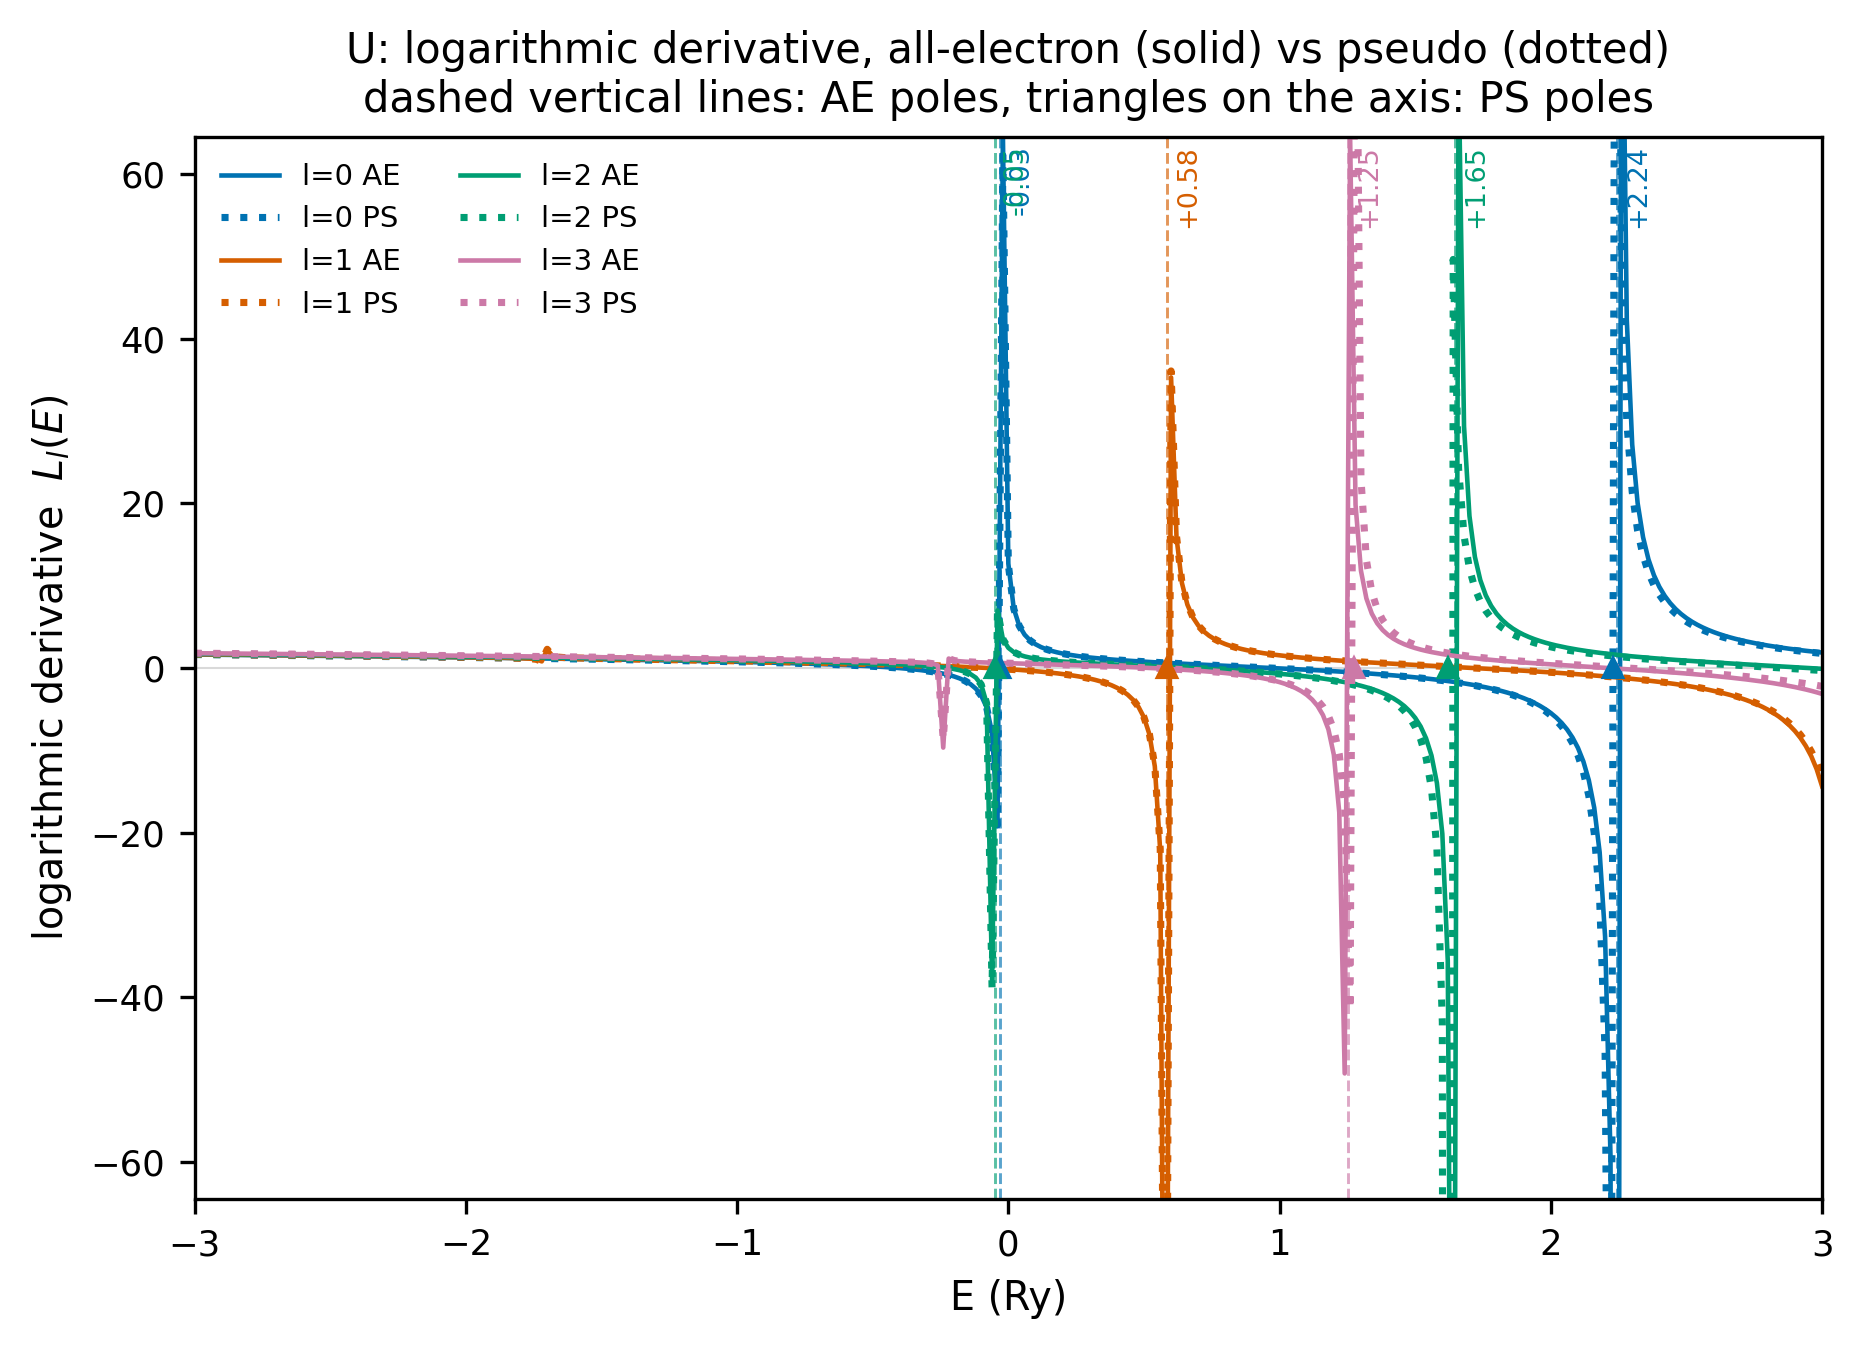
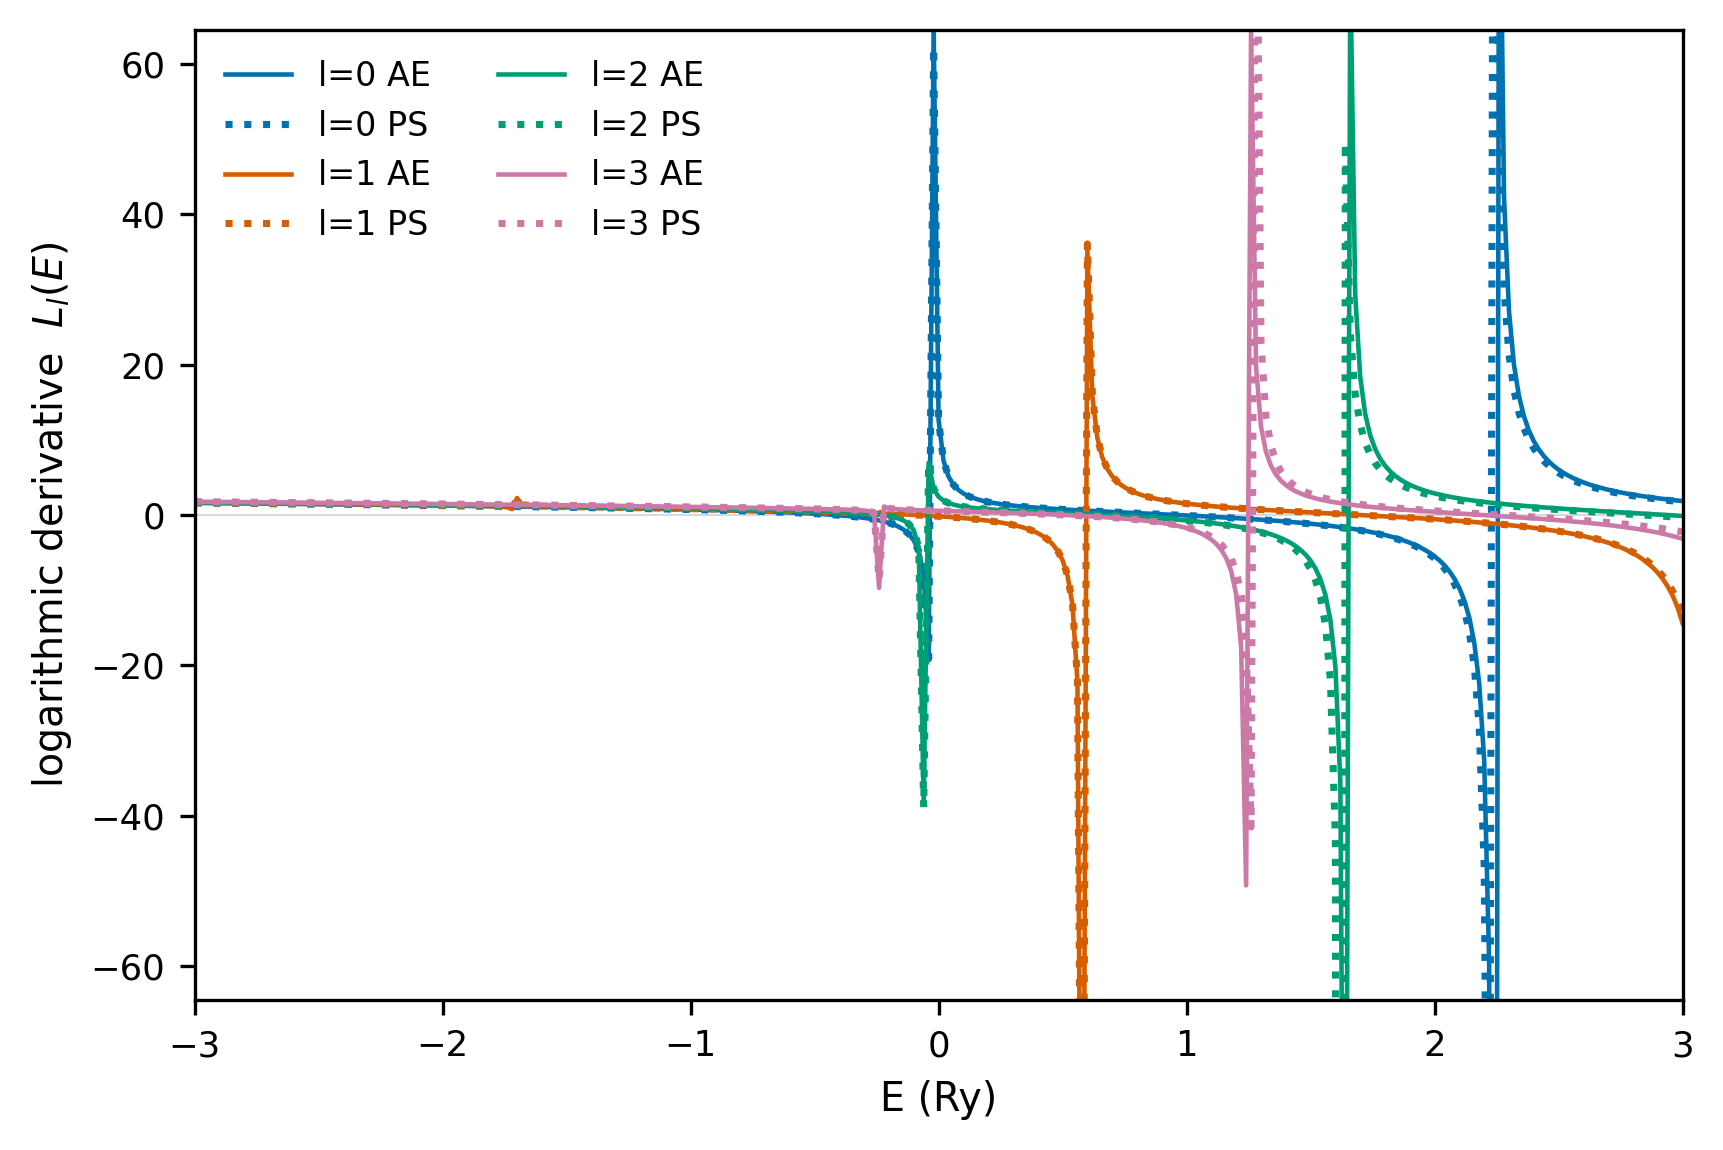
Figures: drop the rlderiv plot, the inset, the pole markers and every title
- fig_rlderiv is gone (file and code): its meaning is not evident from the picture and
  the decisive column is the pole verdict, which belongs in a table.
- fig_radial: no |u_AE - u_PS| inset (those numbers are in the report table), no title.
- fig_logderiv: no vertical pole lines, no triangles, no annotations -- AE solid vs PS
  dotted curves only, no title.
- tests updated to enforce this: no title on either figure, no inset, no vertical lines.
- 27 tests.

Changed region(s): [[0.0, 0.0, 0.9843, 0.9739], [0.0, 0.213, 0.0308, 0.2435]]

diff --git a/src/aiida_ld1_scripts/report.py b/src/aiida_ld1_scripts/report.py
@@ -1,11 +1,14 @@
 """Figures and the markdown report, from ``data/summary.json``.
 
-Three figures, each one a question about the pseudopotential:
+Two figures, both in the style of Torres & Kaloni (2020) and both **without a title** (the
+manuscript captions them):
 
 ``fig_radial.png``     do the pseudo and all-electron radial functions agree?
-``fig_logderiv.png``   do the logarithmic derivatives agree, and do the poles sit on
-                       the same bound-state energies (the ghost criterion)?
-``fig_rlderiv.png``    which ``rlderiv`` reproduces the all-electron data best?
+``fig_logderiv.png``   do the logarithmic derivatives agree?
+
+There is deliberately no plot of the ``rlderiv`` scan: its meaning is not evident from a
+picture, the decisive column is the pole verdict, and that belongs in a table (see the
+README, "what the scan cannot decide").
 
 The ``l >= 3`` channel is drawn but not used to judge anything: for ``l >= 3`` the
 Bessel-box column of ``ld1.x`` is a numerical artefact (it moves ~0.23 Ry with the box
@@ -38,7 +41,8 @@ def _matplotlib():
     import matplotlib
     matplotlib.use('Agg')
     import matplotlib.pyplot as plt
-    # a paper figure, not a debugging plot
+    # a paper figure, not a debugging plot: no titles anywhere, only axis labels and the
+    # legend carry information
     plt.rcParams.update({'font.size': 9, 'axes.titlesize': 10, 'axes.labelsize': 9.5,
                          'legend.fontsize': 8, 'xtick.labelsize': 8.5,
                          'ytick.labelsize': 8.5})
@@ -48,10 +52,9 @@ def _matplotlib():
 def _save(figure, out_base: Path, plt, formats: Sequence[str]) -> Path:
     """Save ``out_base`` in every requested format; returns the base path.
 
-    ``bbox_inches='tight'`` is what keeps a long ylabel or a two-line title from being
-    cut off.  It is **not sufficient** on its own: matplotlib's tight bounding box does
-    not include the decorations of an inset (child) axes, so the inset's tick labels and
-    title would be cropped.  They are passed as extra artists explicitly.
+    ``bbox_inches='tight'`` is what keeps a long ylabel from being cut off.  It is **not**
+    sufficient on its own: matplotlib's tight bounding box does not include the
+    decorations of an inset (child) axes, so those are passed as extra artists.
     """
     out_base.parent.mkdir(parents=True, exist_ok=True)
     extra = []
@@ -77,17 +80,14 @@ def figure_radial(plt, directory: str | Path, out_base: Path, *, rcuts=None,
                   formats: Sequence[str] = ('png',)) -> Optional[Path]:
     """AE vs pseudo radial functions, in the style of Torres & Kaloni Fig. 2 (left).
 
-    All-electron orbitals are **solid lines**, pseudo-orbitals **open symbols** (not a
-    dashed line: a dashed line hides underneath the solid one exactly where the two must
-    coincide), and each pseudized channel gets a vertical dotted line at its ``rcut``.
+    All-electron orbitals are **solid lines**, pseudo-orbitals **open symbols** (a dashed
+    line would hide underneath the solid one exactly where the two have to coincide), and
+    each pseudized channel gets a vertical dotted line at its ``rcut``.  No title: the axes
+    are labelled and the legend carries the ``rcut`` values.
+
     Only the pseudized channels are drawn; the all-electron run also writes core states
     (4F, 5D) that the pseudopotential has no orbital for.
-
-    ``directory`` must contain ``ld1.wfc`` (all-electron) and ``ld1ps.wfc`` (pseudo +
-    phase-aligned all-electron in its second half).
     """
-    import numpy as np
-
     directory = Path(directory)
     ae_file, ps_file = directory / 'ld1.wfc', directory / 'ld1ps.wfc'
     if not (ae_file.is_file() and ps_file.is_file()):
@@ -95,8 +95,7 @@ def figure_radial(plt, directory: str | Path, out_base: Path, *, rcuts=None,
     ae_labels, grid, ae_values = analysis.read_wfc(ae_file)
     ps_labels, _, ps_values, _aligned = analysis.read_wfc_halves(ps_file)
 
-    figure, axis = plt.subplots(figsize=(7.0, 4.4))
-    inset = axis.inset_axes([0.61, 0.47, 0.36, 0.36])
+    figure, axis = plt.subplots(figsize=(6.4, 4.2))
     indices = _sample(grid)
     rcuts = rcuts or {}
 
@@ -115,29 +114,12 @@ def figure_radial(plt, directory: str | Path, out_base: Path, *, rcuts=None,
                   ms=3.4, mew=0.8)
         if cutoff is not None:
             axis.axvline(cutoff, color=colour, ls=':', lw=0.8, alpha=0.75)
-        difference = np.abs(all_electron - pseudo)
-        inset.semilogy(grid[grid > 1e-3], np.maximum(difference[grid > 1e-3], 1e-30),
-                       '-', color=colour, lw=0.8)
 
     axis.set_xlabel('r (bohr)')
     axis.set_ylabel('u(r) = r·R(r)  (arb. units)')
     axis.set_xlim(0.0, min(8.0, float(grid[-1])))
     axis.axhline(0.0, color='0.85', lw=0.5, zorder=0)
-    axis.set_title('U: all-electron radial orbitals (solid) vs pseudo-orbitals '
-                   '(open symbols)\nvertical dotted lines: pseudization radius r$_c$')
-    for handle in axis.get_legend_handles_labels()[0]:
-        handle.set_label(handle.get_label())
-    axis.legend(loc='center right', frameon=False, ncol=1)
-
-    inset.set_title('$|u_{AE} - u_{PS}|$', fontsize=7.5)
-    inset.set_xlabel('r (bohr)', fontsize=7)
-    inset.tick_params(labelsize=6.5)
-    inset.set_xlim(0.0, min(8.0, float(grid[-1])))
-    inset.axhline(1e-3, color='0.6', ls='--', lw=0.6)
-    dropped = [label for label in ae_labels if label not in ps_labels]
-    if dropped:
-        figure.text(0.01, 0.005, 'not drawn (all-electron core states, no pseudo-orbital): '
-                    + ', '.join(dropped), fontsize=6.5, color='0.35', ha='left', va='bottom')
+    axis.legend(loc='upper right', frameon=False)
     return _save(figure, Path(out_base), plt, formats)
 
 
@@ -146,13 +128,13 @@ def figure_logderiv(plt, directory: str | Path, out_base: Path, *,
                     formats: Sequence[str] = ('png',)) -> Optional[Path]:
     """Logarithmic derivatives, in the style of Torres & Kaloni Fig. 3.
 
-    All-electron curves are **solid**, pseudo curves **dotted** (the paper's convention).
-    The ghost criterion is *pole correspondence*, so the poles are not left to the eye:
-    an all-electron pole is a vertical dashed line and the nearest pseudo pole is a
-    triangle on the axis, so "one line, one triangle" is the test.
+    All-electron curves **solid**, pseudo curves **dotted** -- the paper's convention, and
+    nothing else: no title, no vertical pole markers, no annotations.  The pole
+    correspondence is a number in the report table, not something to be measured off the
+    picture.
 
-    The y range is taken from the data (``0.5``–``99.5`` percentile) instead of a fixed
-    ``+-30``: a hard cut made every pole look like a vertical stroke and hid where it is.
+    The y range is taken from the data (``0.5``-``99.5`` percentile) rather than a fixed
+    ``+-30``, which flattened every pole into a vertical stroke.
     """
     import numpy as np
 
@@ -165,34 +147,22 @@ def figure_logderiv(plt, directory: str | Path, out_base: Path, *,
     mask = (energies >= window[0]) & (energies <= window[1])
     channels = [channel for channel in all_electron if channel != 'energy']
 
-    figure, axis = plt.subplots(figsize=(7.0, 4.6))
+    figure, axis = plt.subplots(figsize=(6.4, 4.2))
     for position, channel in enumerate(channels):
         colour = PALETTE[position % len(PALETTE)]
         axis.plot(energies[mask], all_electron[channel][mask], '-', color=colour,
                   lw=1.1, label=f'{channel} AE')
         axis.plot(energies[mask], pseudo[channel][mask], ':', color=colour,
                   lw=1.7, label=f'{channel} PS')
-        for pole in analysis.find_poles(energies[mask], all_electron[channel][mask],
-                                        threshold):
-            axis.axvline(pole, color=colour, ls='--', lw=0.7, alpha=0.65)
-            axis.annotate(f'{pole:+.2f}', xy=(pole, 1.0), xycoords=('data', 'axes fraction'),
-                          xytext=(2, -2), textcoords='offset points', rotation=90,
-                          fontsize=6.5, color=colour, va='top')
-        for pole in analysis.find_poles(energies[mask], pseudo[channel][mask], threshold):
-            axis.plot([pole], [0.0], '^', color=colour, ms=4.5, clip_on=False,
-                      zorder=5)
 
     usable = np.concatenate([np.abs(all_electron[channel][mask]) for channel in channels])
-    low, high = np.percentile(usable, [0.5, 99.5])
-    limit = max(high, 21.0)
+    limit = max(float(np.percentile(usable, 99.5)), 21.0)
     axis.set_ylim(-limit, limit)
     axis.set_xlim(*window)
     axis.set_xlabel('E (Ry)')
     axis.set_ylabel('logarithmic derivative  $L_l(E)$')
-    axis.set_title('U: logarithmic derivative, all-electron (solid) vs pseudo (dotted)\n'
-                   'dashed vertical lines: AE poles, triangles on the axis: PS poles')
     axis.axhline(0.0, color='0.85', lw=0.5, zorder=0)
-    axis.legend(loc='upper left', frameon=False, ncol=2, fontsize=7)
+    axis.legend(loc='upper left', frameon=False, ncol=2)
     return _save(figure, Path(out_base), plt, formats)
 
 
@@ -225,63 +195,9 @@ def export_paper_figures(directory: str | Path, paper_dir: str | Path, *,
     return written
 
 
-def figure_rlderiv(plt, summary: Dict[str, Any], out: Path) -> Optional[Path]:
-    """Pooled median ``|dL|`` against ``rlderiv``, with the pole verdict marked.
-
-    Filled marker = the pole test passes at that radius, open marker = it fails.  The
-    verdict, not the median, is what decides: see the README ("what the scan cannot
-    decide").  The production value is drawn so nobody has to guess which radius was used.
-    """
-    scan = summary.get('rlderiv_scan') or []
-    if not scan:
-        return None
-    import numpy as np
-
-    production = summary.get('criteria', {}).get('production_rlderiv')
-    figure, axis = plt.subplots(figsize=(6.4, 4.0))
-    passed = [entry for entry in scan if entry['poles_all_coincide']]
-    failed = [entry for entry in scan if not entry['poles_all_coincide']]
-    axis.semilogy([entry['rlderiv'] for entry in passed],
-                  [entry['pooled_median'] for entry in passed], 'o-',
-                  color='#0072B2', ms=6, lw=1.2, label='poles coincide (admissible)')
-    axis.semilogy([entry['rlderiv'] for entry in failed],
-                  [entry['pooled_median'] for entry in failed], 'o',
-                  mfc='none', mec='#D55E00', ms=7, mew=1.4,
-                  label='poles do NOT coincide (rejected)')
-    best = summary.get('best_rlderiv') or {}
-    if best.get('rlderiv') is not None:
-        axis.axvline(best['rlderiv'], color='#0072B2', ls=':', lw=1.0)
-        axis.annotate(f"pole-gated pick = {best['rlderiv']:g}",
-                      xy=(best['rlderiv'], best['pooled_median']),
-                      xytext=(6, -14), textcoords='offset points',
-                      fontsize=8, color='#0072B2')
-    if production is not None:
-        axis.axvline(production, color='0.5', ls='--', lw=1.0)
-        axis.annotate(f'production = {production:g}', xy=(production, 0.0),
-                      xycoords=('data', 'axes fraction'), xytext=(4, 6),
-                      textcoords='offset points', fontsize=8, color='0.35')
-    smallest = min(scan, key=lambda entry: entry['pooled_median'])
-    if not smallest['poles_all_coincide']:
-        axis.annotate('smallest median, but rejected',
-                      xy=(smallest['rlderiv'], smallest['pooled_median']),
-                      xytext=(6, 8), textcoords='offset points', fontsize=8,
-                      color='#D55E00')
-    axis.set_xlabel('rlderiv (bohr)')
-    axis.set_ylabel('median |ΔL| (pooled over channels)')
-    axis.set_title('log-derivative agreement vs the rlderiv reference radius\n'
-                   'the median shrinks with the radius by construction; only the '
-                   'pole verdict decides')
-    axis.grid(True, which='both', color='0.9', lw=0.6)
-    axis.legend(fontsize=8, frameon=False, loc='upper right')
-    figure.tight_layout()
-    figure.savefig(out, dpi=150)
-    plt.close(figure)
-    return out
-
-
 def make_figures(summary: Dict[str, Any], directory: str | Path,
                  out_dir: Optional[str | Path] = None) -> List[Path]:
-    """The three repository figures into ``out_dir`` (``directory`` = one run's files)."""
+    """The two generation figures into ``out_dir`` (``directory`` = one run's files)."""
     out_dir = Path(out_dir) if out_dir is not None else recipe_module.DATA_DIR
     out_dir.mkdir(parents=True, exist_ok=True)
     plt = _matplotlib()
@@ -300,9 +216,6 @@ def make_figures(summary: Dict[str, Any], directory: str | Path,
             path = None
         if path is not None:
             written.append(Path(f'{path}.png'))
-    path = figure_rlderiv(plt, summary, out_dir / 'fig_rlderiv.png')
-    if path is not None:
-        written.append(path)
     return written
 
 
@@ -489,8 +402,13 @@ def write_report(summary: Dict[str, Any], out_dir: Optional[str | Path] = None) 
 
     lines += ['## Figures', '',
               '![radial](fig_radial.png)', '',
+              'All-electron orbitals as solid lines, pseudo-orbitals as open symbols; the '
+              'vertical dotted lines are the pseudization radii. The all-electron core '
+              'states (4F, 5D) have no pseudo-orbital and are not drawn.', '',
               '![log derivatives](fig_logderiv.png)', '',
-              '![rlderiv scan](fig_rlderiv.png)', '']
+              'All-electron curves solid, pseudo curves dotted, one colour per angular '
+              'momentum channel. Pole correspondence is in the table above, not marked '
+              'on the figure.', '']
 
     path = out / 'REPORT.md'
     path.write_text('\n'.join(lines) + '\n', encoding='utf-8')

diff --git a/tests/test_figures.py b/tests/test_figures.py
@@ -133,25 +133,35 @@ def test_radial_uses_solid_lines_and_open_symbols(captured):
     assert outside_tight_bbox(figure, renderer, Text) == []
 
 
-def test_radial_draws_the_difference_inset(captured):
-    """The |u_AE - u_PS| inset is a child axes in matplotlib >= 3.6."""
+def test_the_figures_carry_no_title(captured):
+    """The figures are captioned by the manuscript, not by their own title."""
+    render, _plt = captured
+    for which, extra in (('figure_radial', {'rcuts': {'6S': 1.5, '5F': 1.3}}),
+                         ('figure_logderiv', {'window': (-3.0, 3.0), 'threshold': 20.0})):
+        figure, _renderer, _Text = render(which, **extra)
+        assert figure.axes[0].get_title() == '', which
+        assert not figure.texts, which          # no figure-level titles either
+
+
+def test_radial_has_no_difference_inset(captured):
+    """The |u_AE - u_PS| inset was removed: the report table carries those numbers."""
     render, _plt = captured
     figure, _renderer, _Text = render('figure_radial', rcuts={'6S': 1.5, '5F': 1.3})
-    children = figure.axes[0].child_axes
-    assert len(children) == 1
-    assert children[0].get_title() == '$|u_{AE} - u_{PS}|$'
+    assert figure.axes[0].child_axes == []
 
 
-def test_logderiv_solid_versus_dotted_and_poles_marked(captured):
-    """Paper Fig. 3: AE solid, PS dotted, and the pole correspondence drawn."""
+def test_logderiv_is_curves_only(captured):
+    """Paper Fig. 3: AE solid, PS dotted, and nothing else -- no pole markers."""
     render, _plt = captured
     figure, renderer, Text = render('figure_logderiv', window=(-3.0, 3.0), threshold=20.0)
     axes = figure.axes[0]
     dotted = [line for line in axes.get_lines() if line.get_linestyle() == ':']
-    triangles = [line for line in axes.get_lines() if line.get_marker() == '^']
     assert len(dotted) == 2                    # one per channel (l=0, l=1)
-    assert len(triangles) >= 1                 # the pseudo pole(s)
-    assert any(line.get_linestyle() == '--' for line in axes.get_lines())  # AE pole
+    vertical = [line for line in axes.get_lines()
+                if len(set(line.get_xdata())) == 1]
+    assert vertical == []                      # no vertical pole lines
+    assert [line for line in axes.get_lines() if line.get_marker() == '^'] == []
+    assert len(axes.texts) == 0                # no pole-energy annotations
     assert outside_tight_bbox(figure, renderer, Text) == []
 
 

diff --git a/README.md b/README.md
@@ -175,10 +175,14 @@ previous files are kept as `*.bak`):
 | all-electron curve | **solid line** |
 | pseudo-orbital | **open symbols** (radial) / **dotted line** (log derivative) |
 | pseudization radius | vertical **dotted** line, one per channel, with `rc` in bohr |
-| poles | AE pole = dashed vertical line, PS pole = triangle on the axis |
 | colour | Okabe–Ito, one fixed colour per `l` channel; AE/PS never distinguished by colour |
+| titles | **none** — the axes are labelled and the manuscript supplies the caption |
+| extras | none: no inset, no pole markers, no annotations on the curves |
 | units | **bohr** (not Å as in the paper: this recipe's cards and `ld1.test` are in bohr) |
 | labels | `AE` / `PS` — the pseudopotential is norm-conserving, not PAW |
+
+The `rlderiv` scan is **not plotted**. A figure of it hides the column that decides (the
+pole verdict) and its meaning is not evident from the picture; it is a 5-row SI table.
 
 Two renderer details are load-bearing and are covered by `tests/test_figures.py`:
 `bbox_inches='tight'` alone does **not** include an inset axes' decorations (so they are
@@ -188,7 +192,7 @@ passed as `bbox_extra_artists`), and `Figure.get_tightbbox` is in inches while
 ## Tests
 
 ```bash
-pytest        # 26 tests, no database needed
+pytest        # 27 tests, no database needed
 ```
 
 The fixtures in `tests/data/` are the ten `.dlog` files of the reference `rlderiv` scan,

diff --git a/data/REPORT.md b/data/REPORT.md
@@ -107,7 +107,9 @@ The production pseudopotential uses the recipe value (`rlderiv = 5.0`); this sca
 
 ![radial](fig_radial.png)
 
+All-electron orbitals as solid lines, pseudo-orbitals as open symbols; the vertical dotted lines are the pseudization radii. The all-electron core states (4F, 5D) have no pseudo-orbital and are not drawn.
+
 ![log derivatives](fig_logderiv.png)
 
-![rlderiv scan](fig_rlderiv.png)
+All-electron curves solid, pseudo curves dotted, one colour per angular momentum channel. Pole correspondence is in the table above, not marked on the figure.
 
